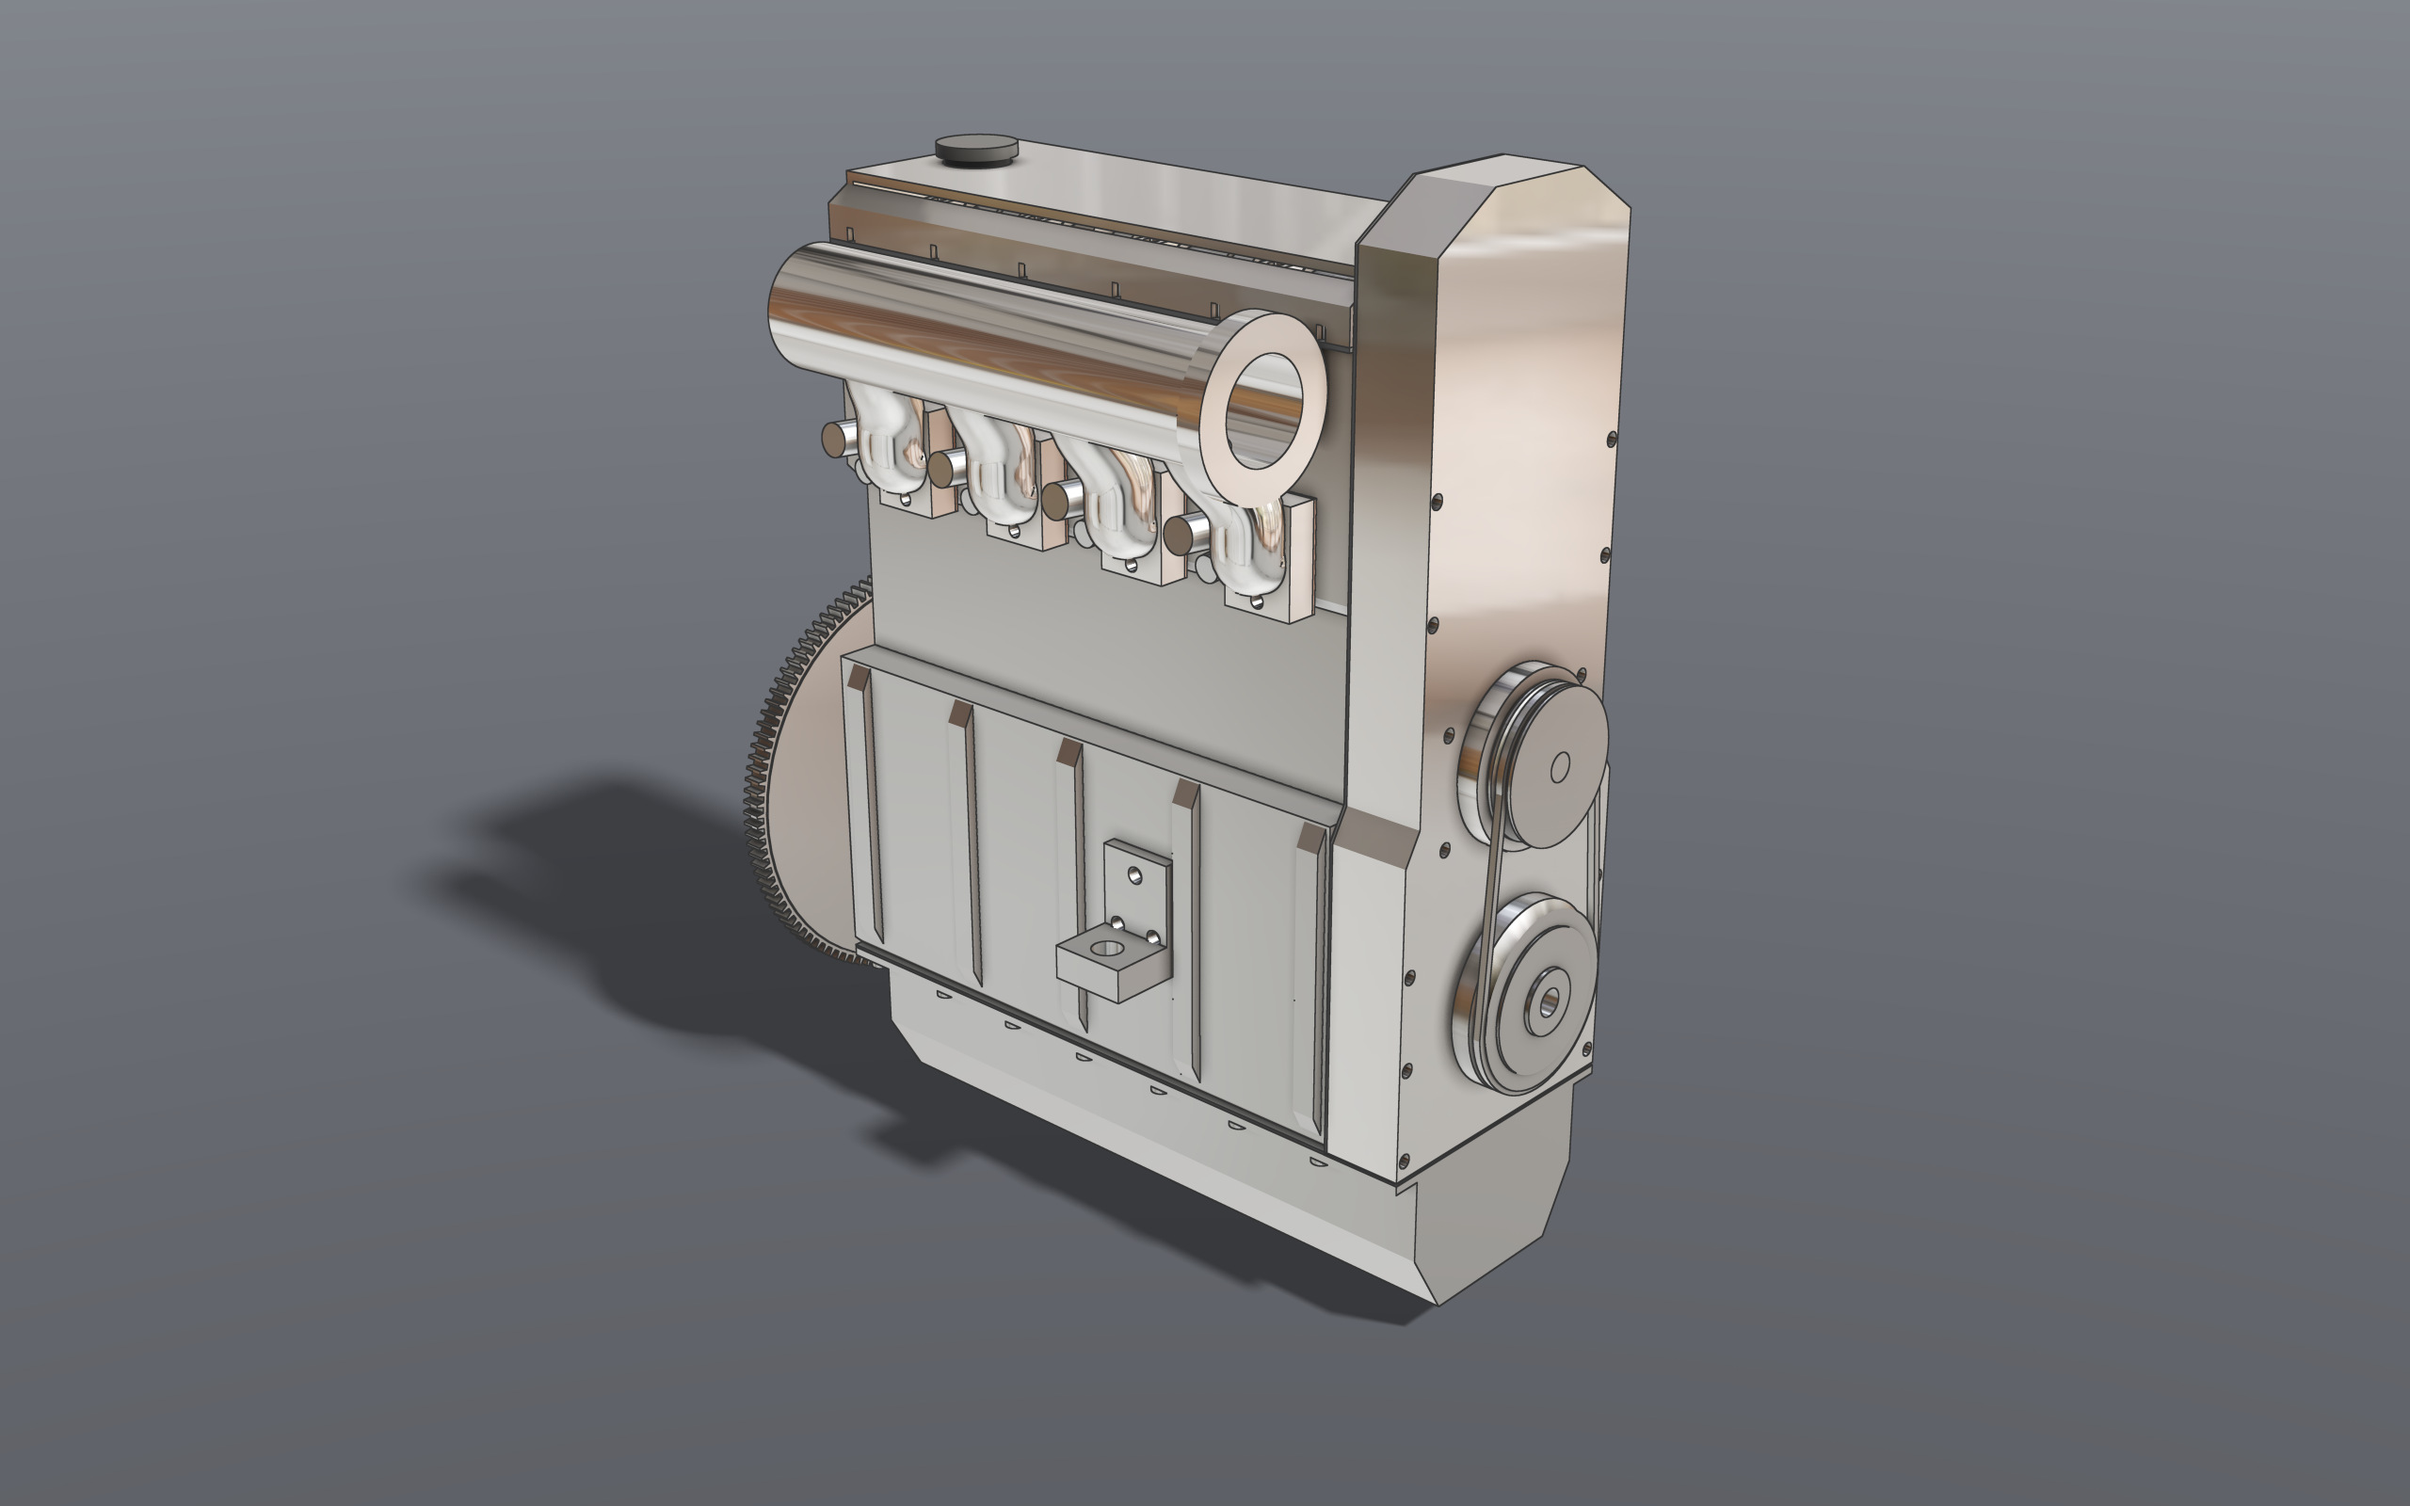
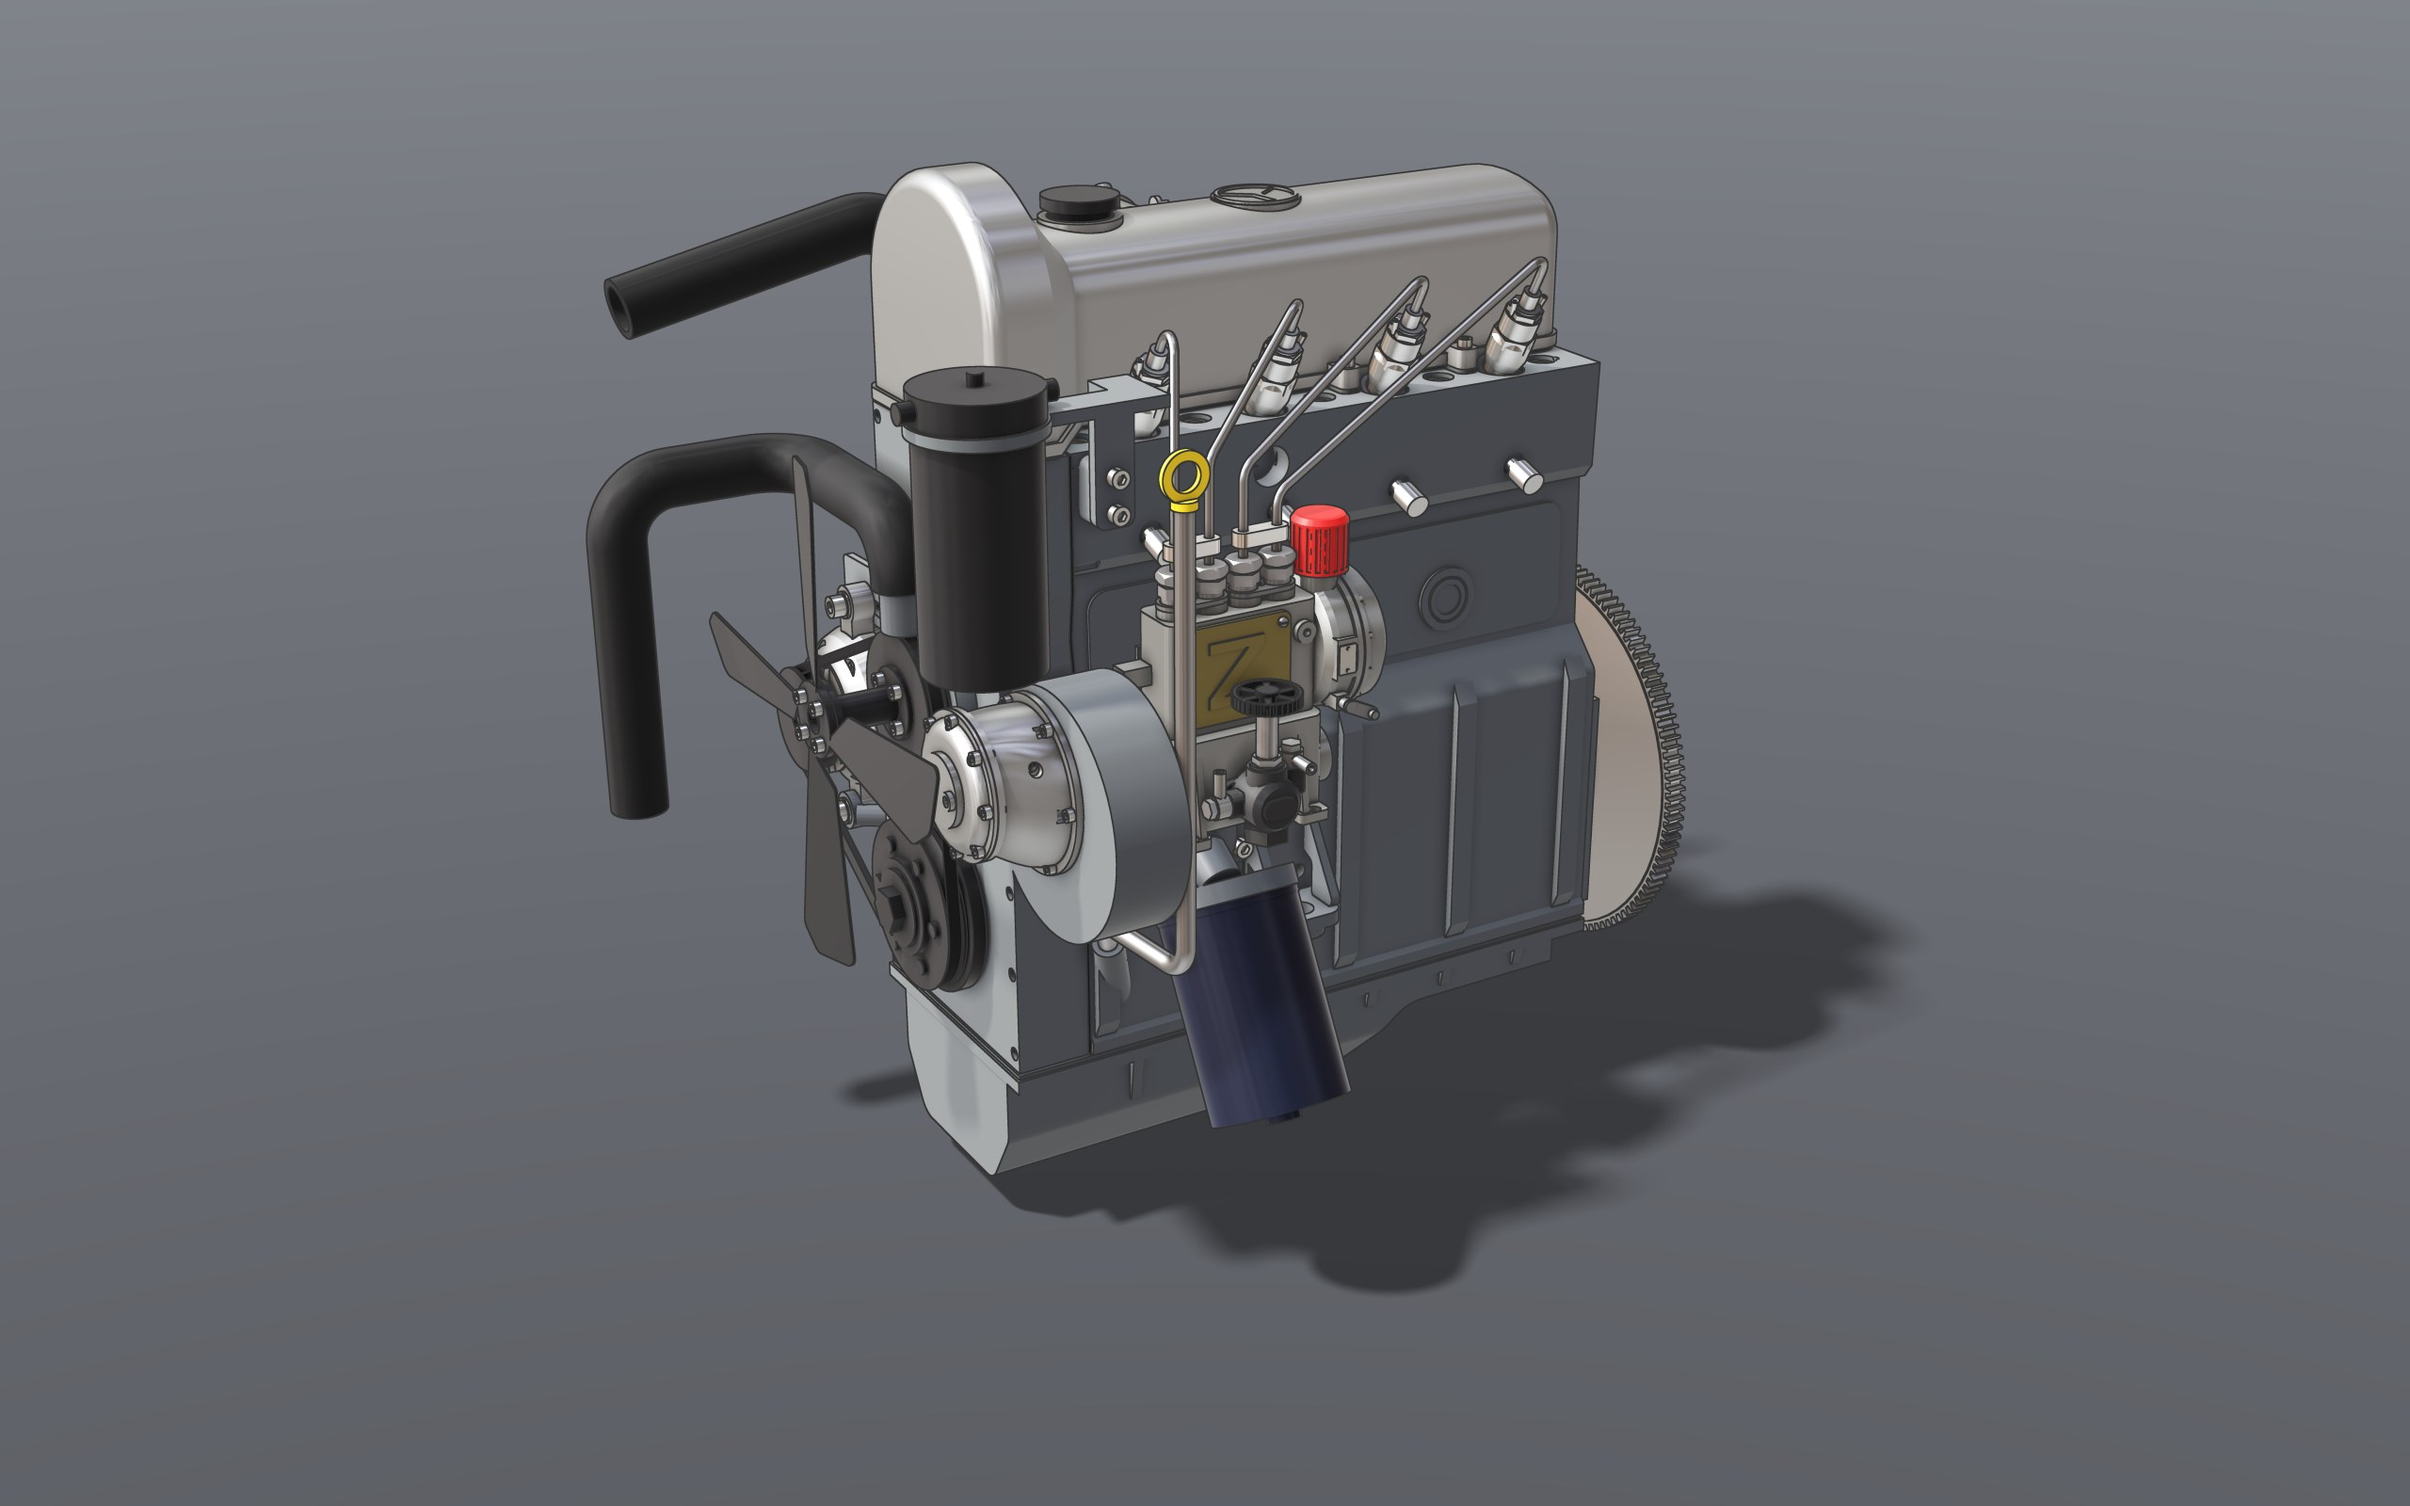
docs(readme): a larger gallery — the engine with its pump, its motion, the bike and the drone
Two columns instead of three. The engine is re-rendered from the pump
side (2560 x 1600, 4096 samples, studio backdrop) now the PES pump is on
it, and its two revolutions in section loop as a GIF beside it. The
chassis, watch and grill images go; generators/README.md has them all.

Changed region(s): [[0.1562, 0.0938, 0.7812, 0.875]]

diff --git a/README.md b/README.md
@@ -22,15 +22,16 @@ See [docs/README.md](docs/README.md) for how each part of the program works, and
 ## Gallery
 
 Every model here is built by a generator — an ordinary Python program driving
-the same API the GUI and an LLM assistant use — and rendered by Designer's own
-path tracer. See [generators/README.md](generators/README.md) for all of them.
+the same API the GUI and an LLM assistant use. The stills are Designer's own
+path tracer; the animation is its motion-video export. See
+[generators/README.md](generators/README.md) for all of them.
 
-| | | |
-|:---:|:---:|:---:|
-| [![Formula Student space frame](docs/gallery/fs-chassis.jpg)](generators/chassis) | [![Automatic watch](docs/gallery/automatic-watch.jpg)](generators/watch) | [![Four-cylinder diesel engine](docs/gallery/om615-engine.jpg)](generators/om615) |
-| **Formula Student chassis** — 91 coped chromoly members read from a team's CAD, with its cut list, bend schedule and weld jig | **Automatic watch** — a working movement: gear train, escapement and keyless works, geared together and set to a time | **OM615 diesel** — every part down to the bearing shells, driven by one crank, clash-checked over two revolutions |
-| [![Bicycle](docs/gallery/bicycle.jpg)](generators/bike) | [![FPV quadcopter](docs/gallery/fpv-drone.jpg)](generators/fpv_drone) | [![Gas grill](docs/gallery/gas-grill.jpg)](generators/grill) |
-| **Bicycle** — modelled from photographs: frame, wheels with laced spokes, chain drive | **5-inch FPV quadcopter** — 91 occurrences, fitted fasteners, FEM on the arms | **Gas grill** — sheet-metal parts, bent from flat blanks and assembled by mates |
+| | |
+|:---:|:---:|
+| [![OM615 diesel with its injection pump](docs/gallery/om615-engine.jpg)](generators/om615) | [![OM615 diesel turning over, in section](docs/gallery/om615-motion.gif)](generators/om615) |
+| **OM615 diesel** — every part down to the bearing shells, with its Bosch injection pump chained to the crank and timed | **Two revolutions, in section** — one crank drives the pistons and the valve train, clash-checked all the way round |
+| [![Bicycle](docs/gallery/bicycle.jpg)](generators/bike) | [![FPV quadcopter](docs/gallery/fpv-drone.jpg)](generators/fpv_drone) |
+| **Bicycle** — modelled from photographs: frame, wheels with laced spokes, chain drive | **5-inch FPV quadcopter** — 91 occurrences, fitted fasteners, FEM on the arms |
 
 ## Requirements
 
